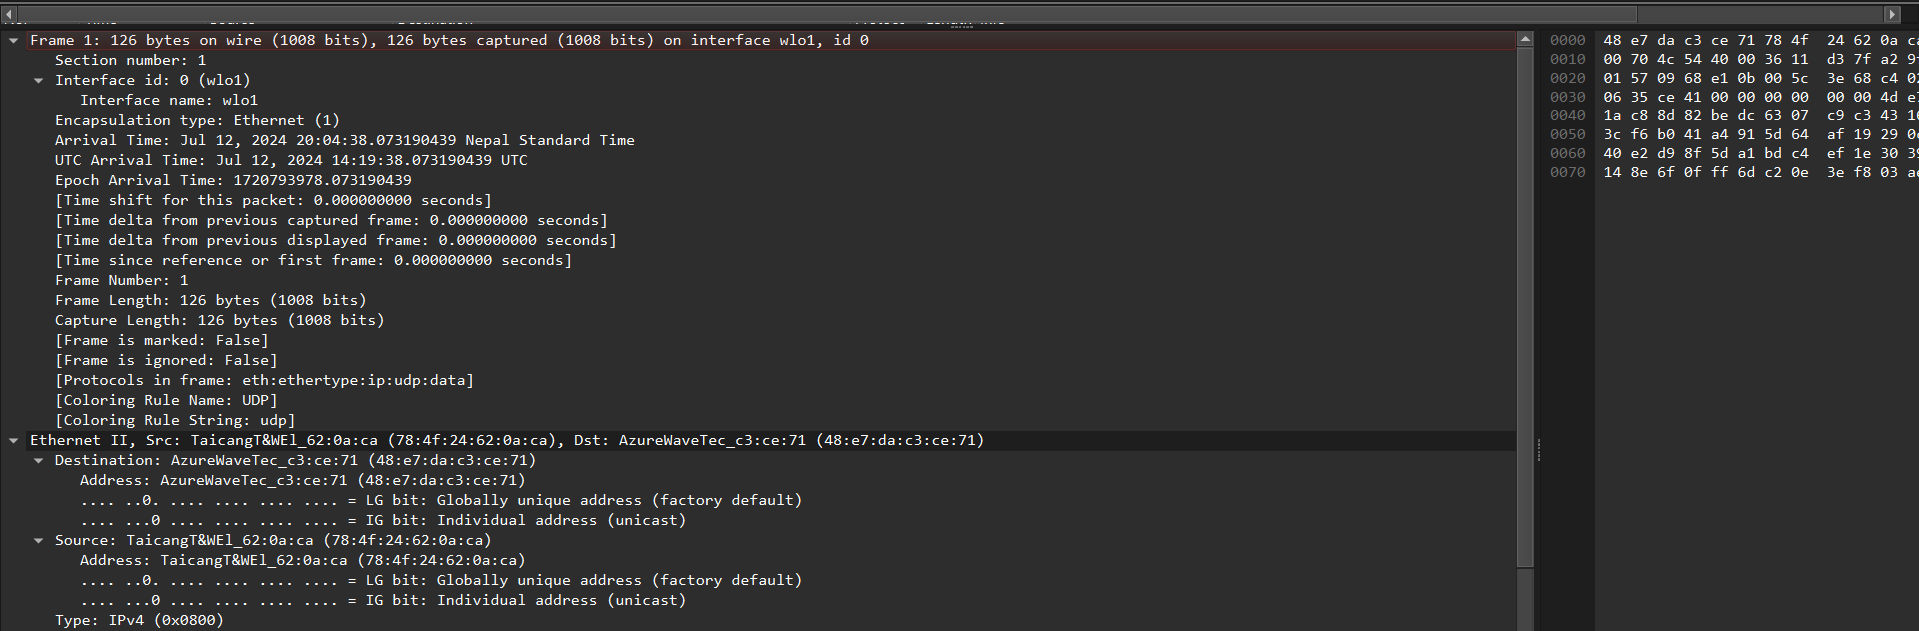
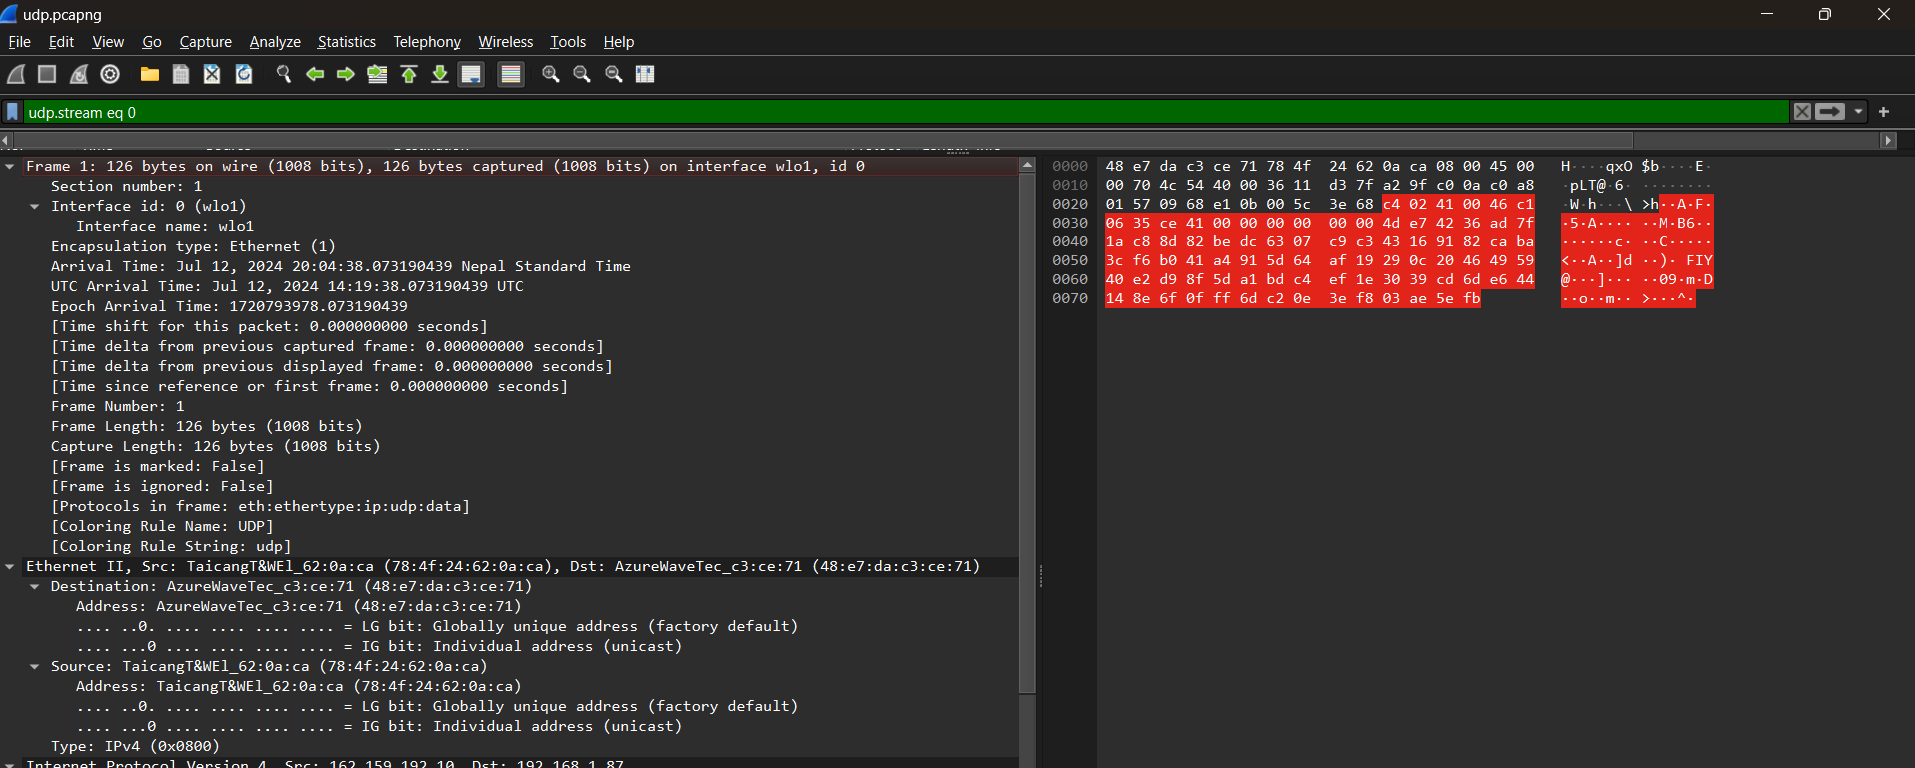
udpcapture

Changed region(s): [[0.0, 0.0, 1.0, 1.0]]

diff --git a/Wireshark/UDPCapture/udpcapture.md b/Wireshark/UDPCapture/udpcapture.md
@@ -40,6 +40,8 @@ This markdown shows how to capture and analyze a UDP packet using Wireshark.
    
    ![Inspect UDP Packet](../../Images/UDPCapture6.png)
 
+   ![Inspect UDP Packet](../../Images/UDPCapture7.png)
+
 ## Analyzing the UDP Packet
 
 ### General Information
@@ -119,6 +121,8 @@ By following these steps, you can capture and analyze UDP packets over the netwo
    ![Inspect UDP Packet](../../Images/UDPCapture5.png)
    
    ![Inspect UDP Packet](../../Images/UDPCapture6.png)
+
+   ![Inspect UDP Packet](../../Images/UDPCapture7.png)
 
 ## Notes
 
